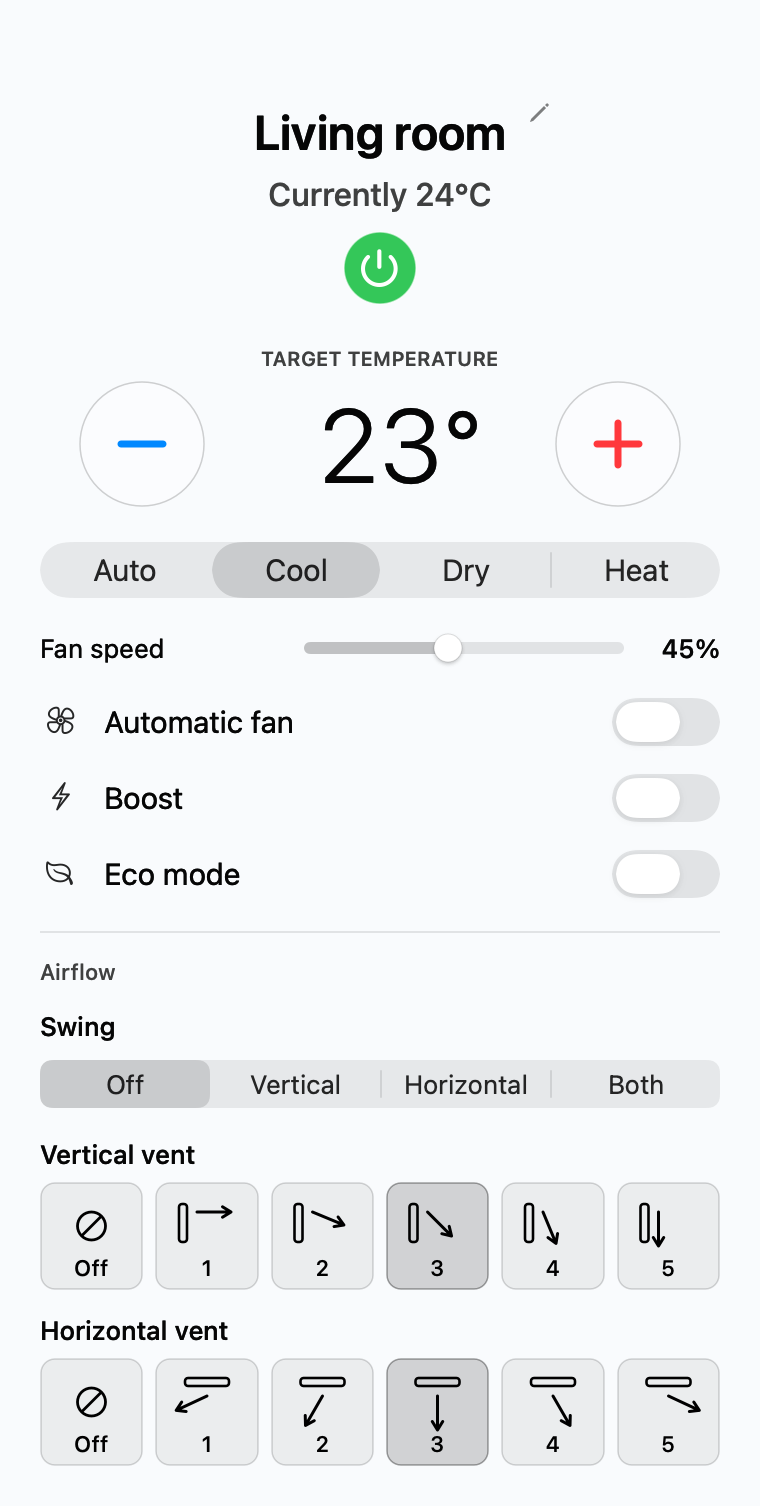
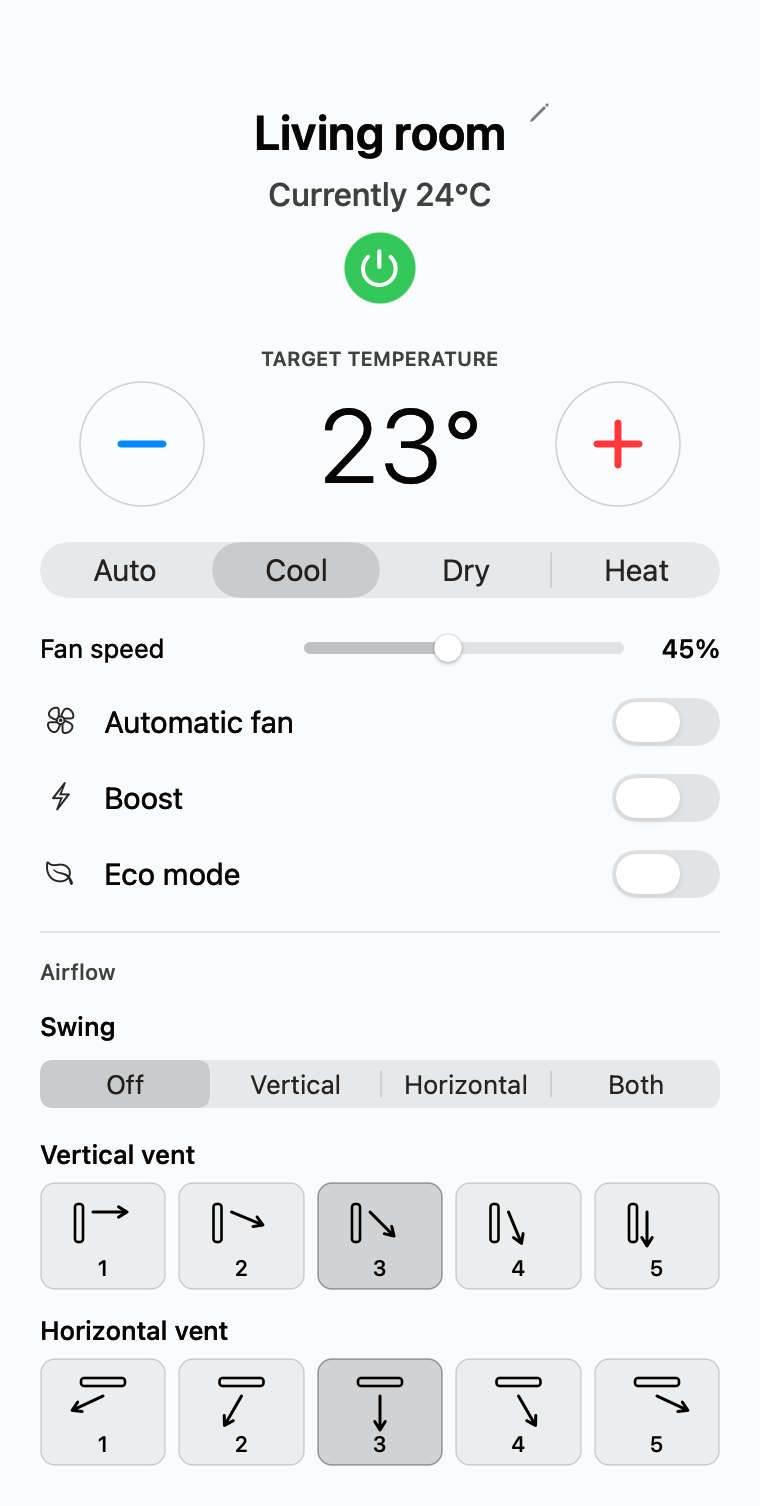
Remove inactive vent position choices and verify swing capabilities

diff --git a/tests/native/ControlsTests.swift b/tests/native/ControlsTests.swift
@@ -23,9 +23,9 @@ struct ControlsTests {
             control.update(values: supported, selected: nil)
             let stack = control.subviews[0] as! NSStackView
             let buttons = stack.arrangedSubviews.compactMap { $0 as? NSButton }
-            check(buttons.count == 6, "Each supported position needs a button")
+            check(buttons.count == 5, "Each supported position needs a button")
             check(buttons.allSatisfy { $0.state == .off }, "Unknown position must not imply Off")
-            for (button, value) in zip(buttons, supported) {
+            for (button, value) in zip(buttons, supported.filter { $0 != 0 }) {
                 button.performClick(nil)
                 check(control.selectedValue == value, "Wrong protocol position sent")
                 check(recorder.values.last! == value, "Selection action must carry the protocol value")
@@ -35,13 +35,16 @@ struct ControlsTests {
             check(stack.arrangedSubviews[2] === buttons[2], "Refresh must preserve button identity and keyboard focus")
             control.update(values: supported, selected: 99)
             check(control.selectedValue == nil && buttons.allSatisfy { $0.state == .off }, "Unrecognized positions must remain unselected")
+            control.update(values: supported, selected: 0)
+            check(control.selectedValue == nil && buttons.allSatisfy { $0.state == .off }, "Zero must not appear as an Off position")
+            check(buttons.allSatisfy { $0.tag != 0 }, "Zero must never be sent by a position button")
             control.isEnabled = false
             let before = recorder.values.count
             buttons[1].performClick(nil)
             check(recorder.values.count == before, "Disabled controls must not send actions")
             check(buttons.allSatisfy { !$0.isEnabled }, "Disabled state must reach every button")
             control.update(values: [0, 50], selected: 50)
-            check(stack.arrangedSubviews.count == 2, "Unsupported positions must not be offered")
+            check(stack.arrangedSubviews.count == 1, "Unsupported positions must not be offered")
             check(stack.arrangedSubviews.compactMap { $0 as? NSButton }.allSatisfy { !$0.isEnabled }, "Rebuilding cannot enable offline controls")
             control.isEnabled = true
             check(stack.arrangedSubviews.compactMap { $0 as? NSButton }.allSatisfy { $0.isEnabled }, "Controls must recover after reconnect")

diff --git a/native/VentPositionControl.swift b/native/VentPositionControl.swift
@@ -25,6 +25,8 @@ final class VentPositionControl: NSControl {
     required init?(coder: NSCoder) { fatalError("init(coder:) has not been implemented") }
 
     func update(values: [Int32], selected: Int32?) {
+        // Zero is not a fixed vent direction; offer only positions 1–5.
+        let values = values.filter { [Int32(1), 25, 50, 75, 100].contains($0) }
         if self.values != values {
             self.values = values
             for view in buttons.arrangedSubviews { buttons.removeArrangedSubview(view); view.removeFromSuperview() }

diff --git a/src/protocol.rs b/src/protocol.rs
@@ -91,6 +91,30 @@ mod tests {
         );
     }
     #[test]
+    fn swing_choices_follow_axis_capabilities() {
+        for (reported, expected) in [
+            (0, vec![0, 12]),
+            (1, vec![0, 3, 12, 15]),
+            (2, vec![0]),
+            (3, vec![0, 3]),
+        ] {
+            let caps =
+                Capabilities::decode(&frame(3, vec![0xb5, 1, 0x15, 2, 1, reported, 0], 1)).unwrap();
+            assert_eq!(caps.swings, expected);
+            for setting in [0, 3, 12, 15] {
+                assert_eq!(
+                    caps.validate(&SettingsChange {
+                        swing: Some(setting),
+                        ..Default::default()
+                    })
+                    .is_ok(),
+                    expected.contains(&setting)
+                );
+            }
+        }
+    }
+
+    #[test]
     fn additional_capabilities_remain_pending_until_merged() {
         let mut caps = Capabilities::decode(&frame(3, vec![0xb5, 1, 0x10, 2, 1, 1, 1], 1)).unwrap();
         assert!(caps.additional);
